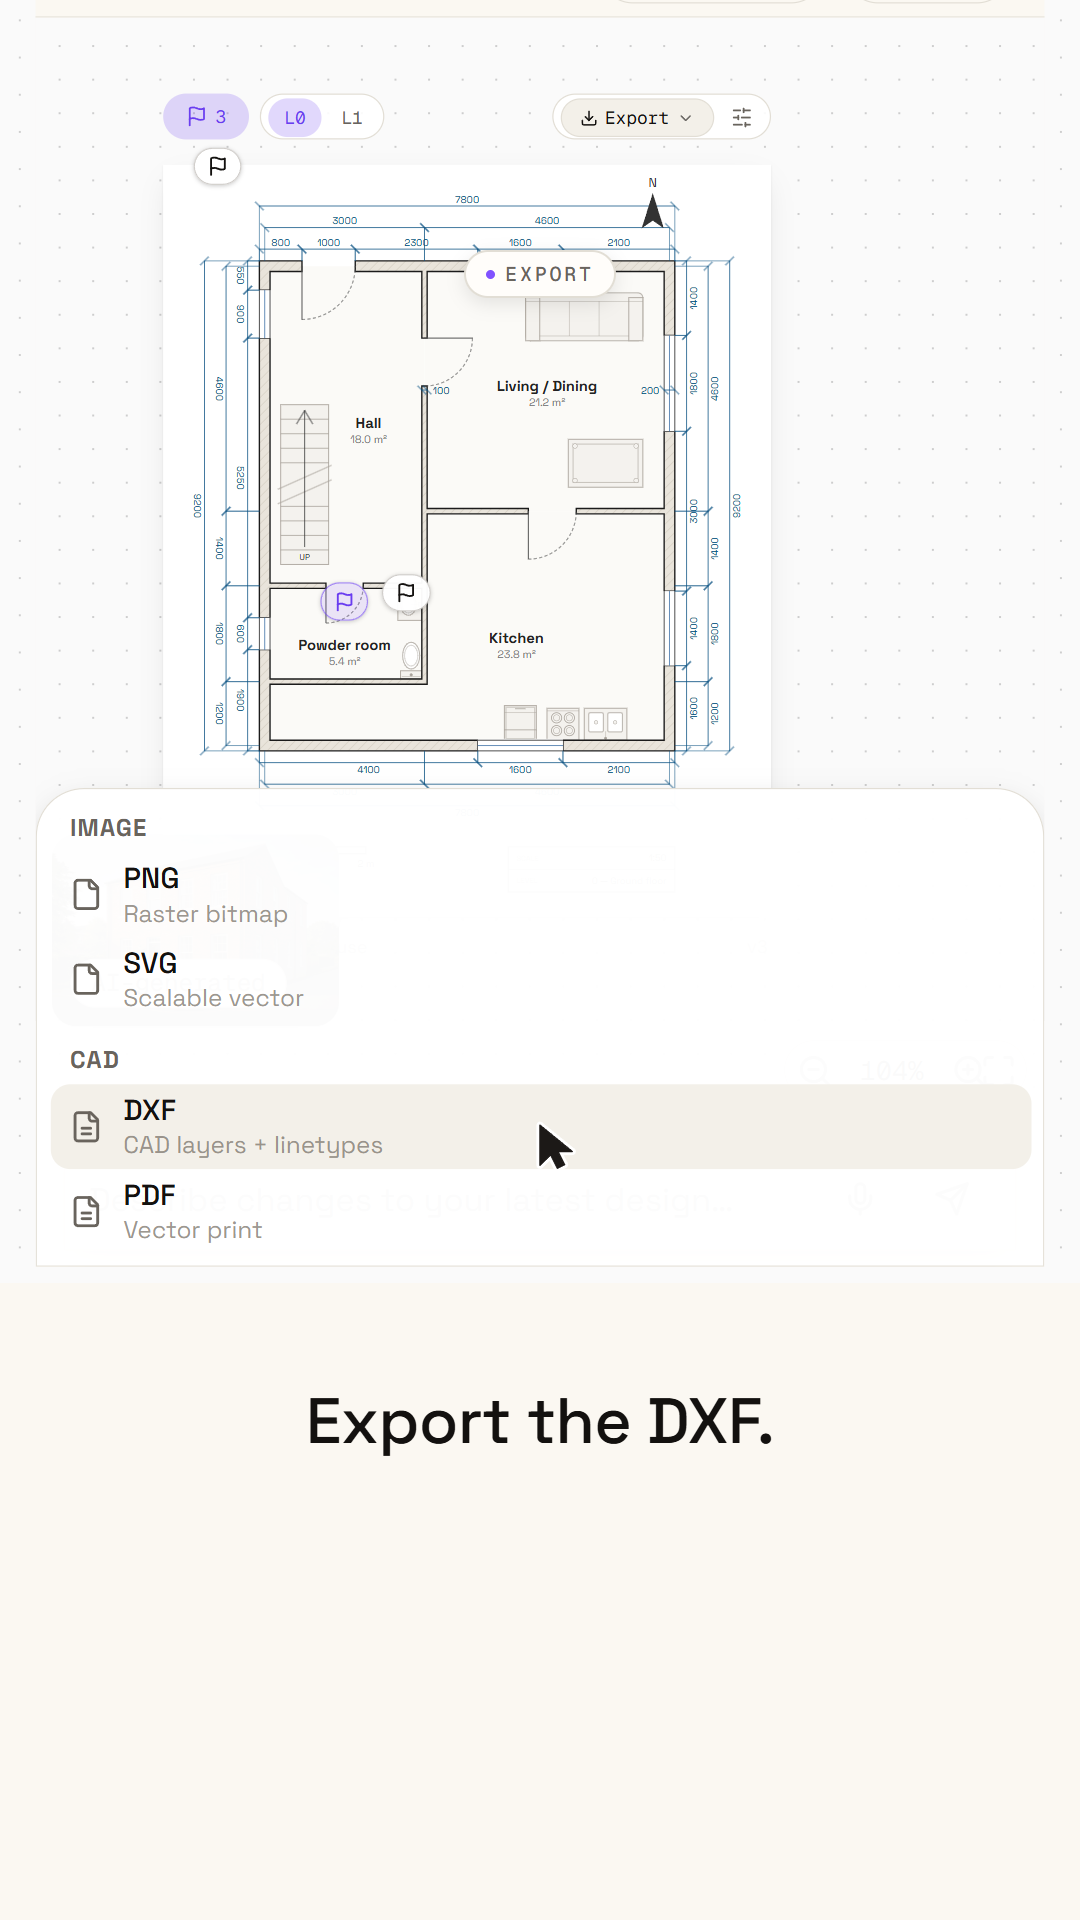
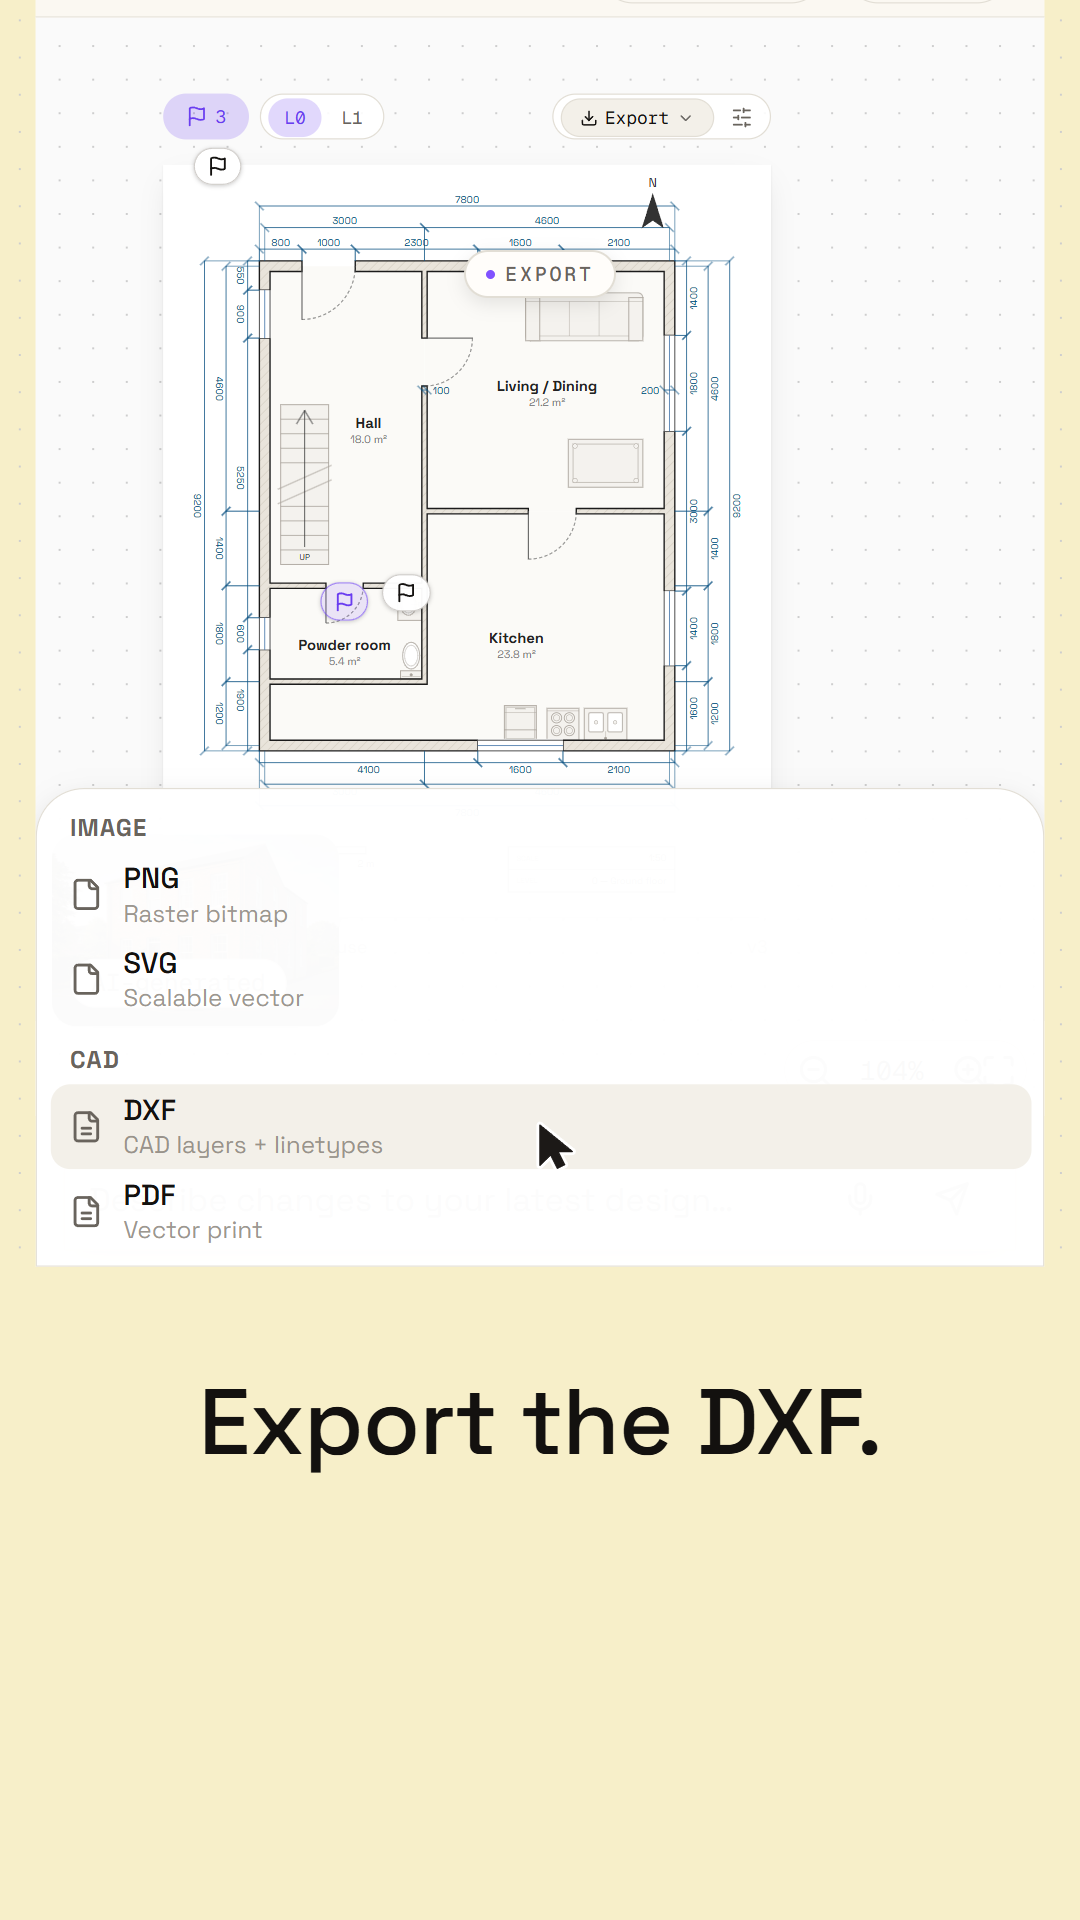
scenes: hold the drawing while the pins land, and keep colour through the montage
Two more from the contact sheet.

The receipt beat frames differently before and after a pin is opened, and it was
using the after framing for both. Aimed at the first finding — which is the
sheet-wide one and therefore anchored to the paper's top edge, with its card out
on the empty canvas — the 120 s cut's first receipt beat was six seconds of blank
canvas with a corner of drawing in it. While the pins are dropping there is no
card to read: the shot holds all three pins and the building they land on, and
only tightens onto the open one once there is one. Decided per beat against
`OPEN_PIN_SEC`, not per frame.

And the montage was sixteen seconds of ivory in the middle of a film that had
just learned a colour script. Each of the four plans gets its own stage, and the
change lands on the slot boundary with the plan.

diff --git a/src/components/SecondBrief.tsx b/src/components/SecondBrief.tsx
@@ -7,7 +7,7 @@ import { useLayout } from "../layout";
 import { typedLength } from "../replica/at";
 import { PlanSvg } from "../replica/parts/PlanSvg";
 import { clamp01, easeOutCubic, easeOutExpo, frameToSec, type ResolvedBeat } from "../timeline";
-import { APP, CANVAS_DOT_PITCH, CANVAS_DRIFT_PX, RADIUS, SPOT, TRACKING, TYPE, WEIGHT } from "../tokens";
+import { APP, CANVAS_DOT_PITCH, CANVAS_DRIFT_PX, RADIUS, SPOT, STAGE, TRACKING, TYPE, WEIGHT } from "../tokens";
 import { fitLines } from "../typefit";
 
 /**
@@ -63,9 +63,17 @@ export const SecondBrief: React.FC<{ beat: ResolvedBeat }> = ({ beat }) => {
   const plan = MONTAGE[index];
   const page = MONTAGE_PAGES[index];
 
+  /*
+   * The montage keeps the colour script running. Four plans over sixteen
+   * seconds on one ground is the stretch where the film would go quiet again,
+   * so each plan gets its own stage and the change lands on the slot boundary
+   * with the plan.
+   */
+  const ground = MONTAGE_STAGES[index % MONTAGE_STAGES.length];
+
   return (
-    <AbsoluteFill style={{ backgroundColor: APP.page }}>
-      <Lattice frame={frame} pitch={layout.u(CANVAS_DOT_PITCH)} />
+    <AbsoluteFill style={{ backgroundColor: ground }}>
+      <Lattice frame={frame} pitch={layout.u(CANVAS_DOT_PITCH)} ground={ground} />
       <MontagePane key={index} plan={plan} page={page} p={local} layout={layout} />
     </AbsoluteFill>
   );
@@ -240,6 +248,9 @@ const MontagePane: React.FC<{
   );
 };
 
+/** One stage per montage plan, from the film's own script. */
+const MONTAGE_STAGES = [STAGE.edit, STAGE.tweak, STAGE.draw, STAGE.export] as const;
+
 const size = (p: number): number => 0.4 + 0.6 * p;
 
 /** The typing caret, on the replica's own blink period. */
@@ -292,12 +303,12 @@ const breakBrief = (text: string, budget: number): string[] => {
 };
 
 /** The canvas lattice, drifting — the same ground the replica scenes stand on. */
-const Lattice: React.FC<{ frame: number; pitch: number }> = ({ frame, pitch }) => {
+const Lattice: React.FC<{ frame: number; pitch: number; ground: string }> = ({ frame, pitch, ground }) => {
   const drift = (frame * CANVAS_DRIFT_PX) % pitch;
   return (
     <AbsoluteFill
       style={{
-        backgroundColor: APP.canvas,
+        backgroundColor: ground,
         backgroundImage: `radial-gradient(${APP.canvasDot} 1.4px, transparent 1.4px)`,
         backgroundSize: `${pitch}px ${pitch}px`,
         backgroundPosition: `${drift.toFixed(2)}px ${(drift * 0.6).toFixed(2)}px`,

diff --git a/src/camera.ts b/src/camera.ts
@@ -65,7 +65,7 @@ import {
 import type { PlanPage } from "./replica/planTypes";
 import { pickPage } from "./replica/resolvePages";
 import type { ReplicaState } from "./replica/types";
-import { CAPTION_SPAN, DEMO, PAGES, RENDERING_SPAN, overlaps, stateAt } from "./film-demo";
+import { CAPTION_SPAN, DEMO, OPEN_PIN_SEC, PAGES, RENDERING_SPAN, overlaps, stateAt } from "./film-demo";
 import { DRAFTING_SPAN } from "./honesty";
 import type { Layout, StageRect } from "./layout-core";
 import { SCENES, type SceneId } from "./scenes";
@@ -388,8 +388,23 @@ export const focusRectFor = (
 
     case "receipt": {
       const anchors = pinAnchors(ctx);
+      const building0 = buildingBox(ctx) ?? sheetOnScreen(ctx);
+      /*
+       * BEFORE a pin is opened there is no card to read, and the subject is the
+       * three pins landing on the drawing — so the shot holds all of them and
+       * the building. The contact sheet caught the other version: aimed at the
+       * first finding, which is the sheet-wide one and therefore anchored to the
+       * paper's top edge, the 120 s cut's first receipt beat was six seconds of
+       * empty canvas with a corner of drawing in it.
+       */
+      if (!span || span.to < OPEN_PIN_SEC) {
+        return anchors.reduce<Rect>(
+          (acc, a) => unionR(acc, { x: a.x - 20 * spec.ck, y: a.y - 30 * spec.ck, w: 40 * spec.ck, h: 40 * spec.ck }),
+          building0,
+        );
+      }
       const open = state.review.openPin;
-      const a = (open !== null ? anchors[open] : undefined) ?? anchors[0];
+      const a = (open !== null ? anchors[open] : undefined) ?? anchors[1] ?? anchors[0];
       if (!a) return sheetOnScreen(ctx);
       /*
        * The card that has to be READ, the pin it belongs to, and enough of the

diff --git a/src/film-demo.ts b/src/film-demo.ts
@@ -191,6 +191,18 @@ export const RENDERING_SPAN = {
   to: SCREENPLAY.durationSec,
 } as const;
 
+/**
+ * When the review chapter OPENS a pin, in screenplay seconds.
+ *
+ * The receipt beat frames differently before and after: while the pins are
+ * dropping there is no card to read and the shot has to hold the drawing they
+ * are landing on; once one is open, the sentence in the card is the subject.
+ * Read per BEAT against this, not per frame, for the usual reason — a framing
+ * that changes halfway through a beat is a lurch.
+ */
+const openPinBeat = SCREENPLAY.beats.find((b) => b.action.k === "openPin");
+export const OPEN_PIN_SEC: number = openPinBeat ? openPinBeat.at + openPinBeat.dur * 0.5 : Infinity;
+
 /** Do two closed intervals meet? */
 export const overlaps = (a: { from: number; to: number }, b: { from: number; to: number }): boolean =>
   a.from <= b.to && b.from <= a.to;
